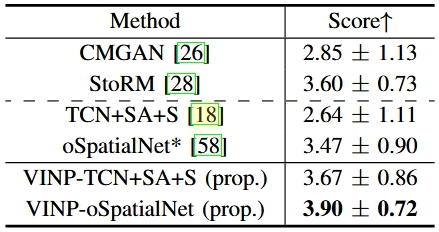
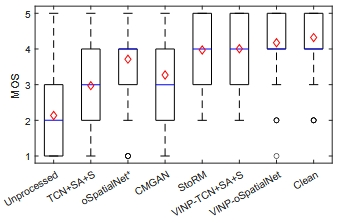
v2.0.1

diff --git a/README.md b/README.md
@@ -14,11 +14,8 @@ This work proposes a variational Bayesian inference framework with neural speech
 
 **Speech Dereverberation Results**
 
-PESQ, ESTOI, DNSMOS and WER
-
 <img src="figure/Result_REVERB.png" width="1000">
 
-Subjective listening test
 
 <img src="figure/Result_REVERB_subjective.png" width="300">
 
